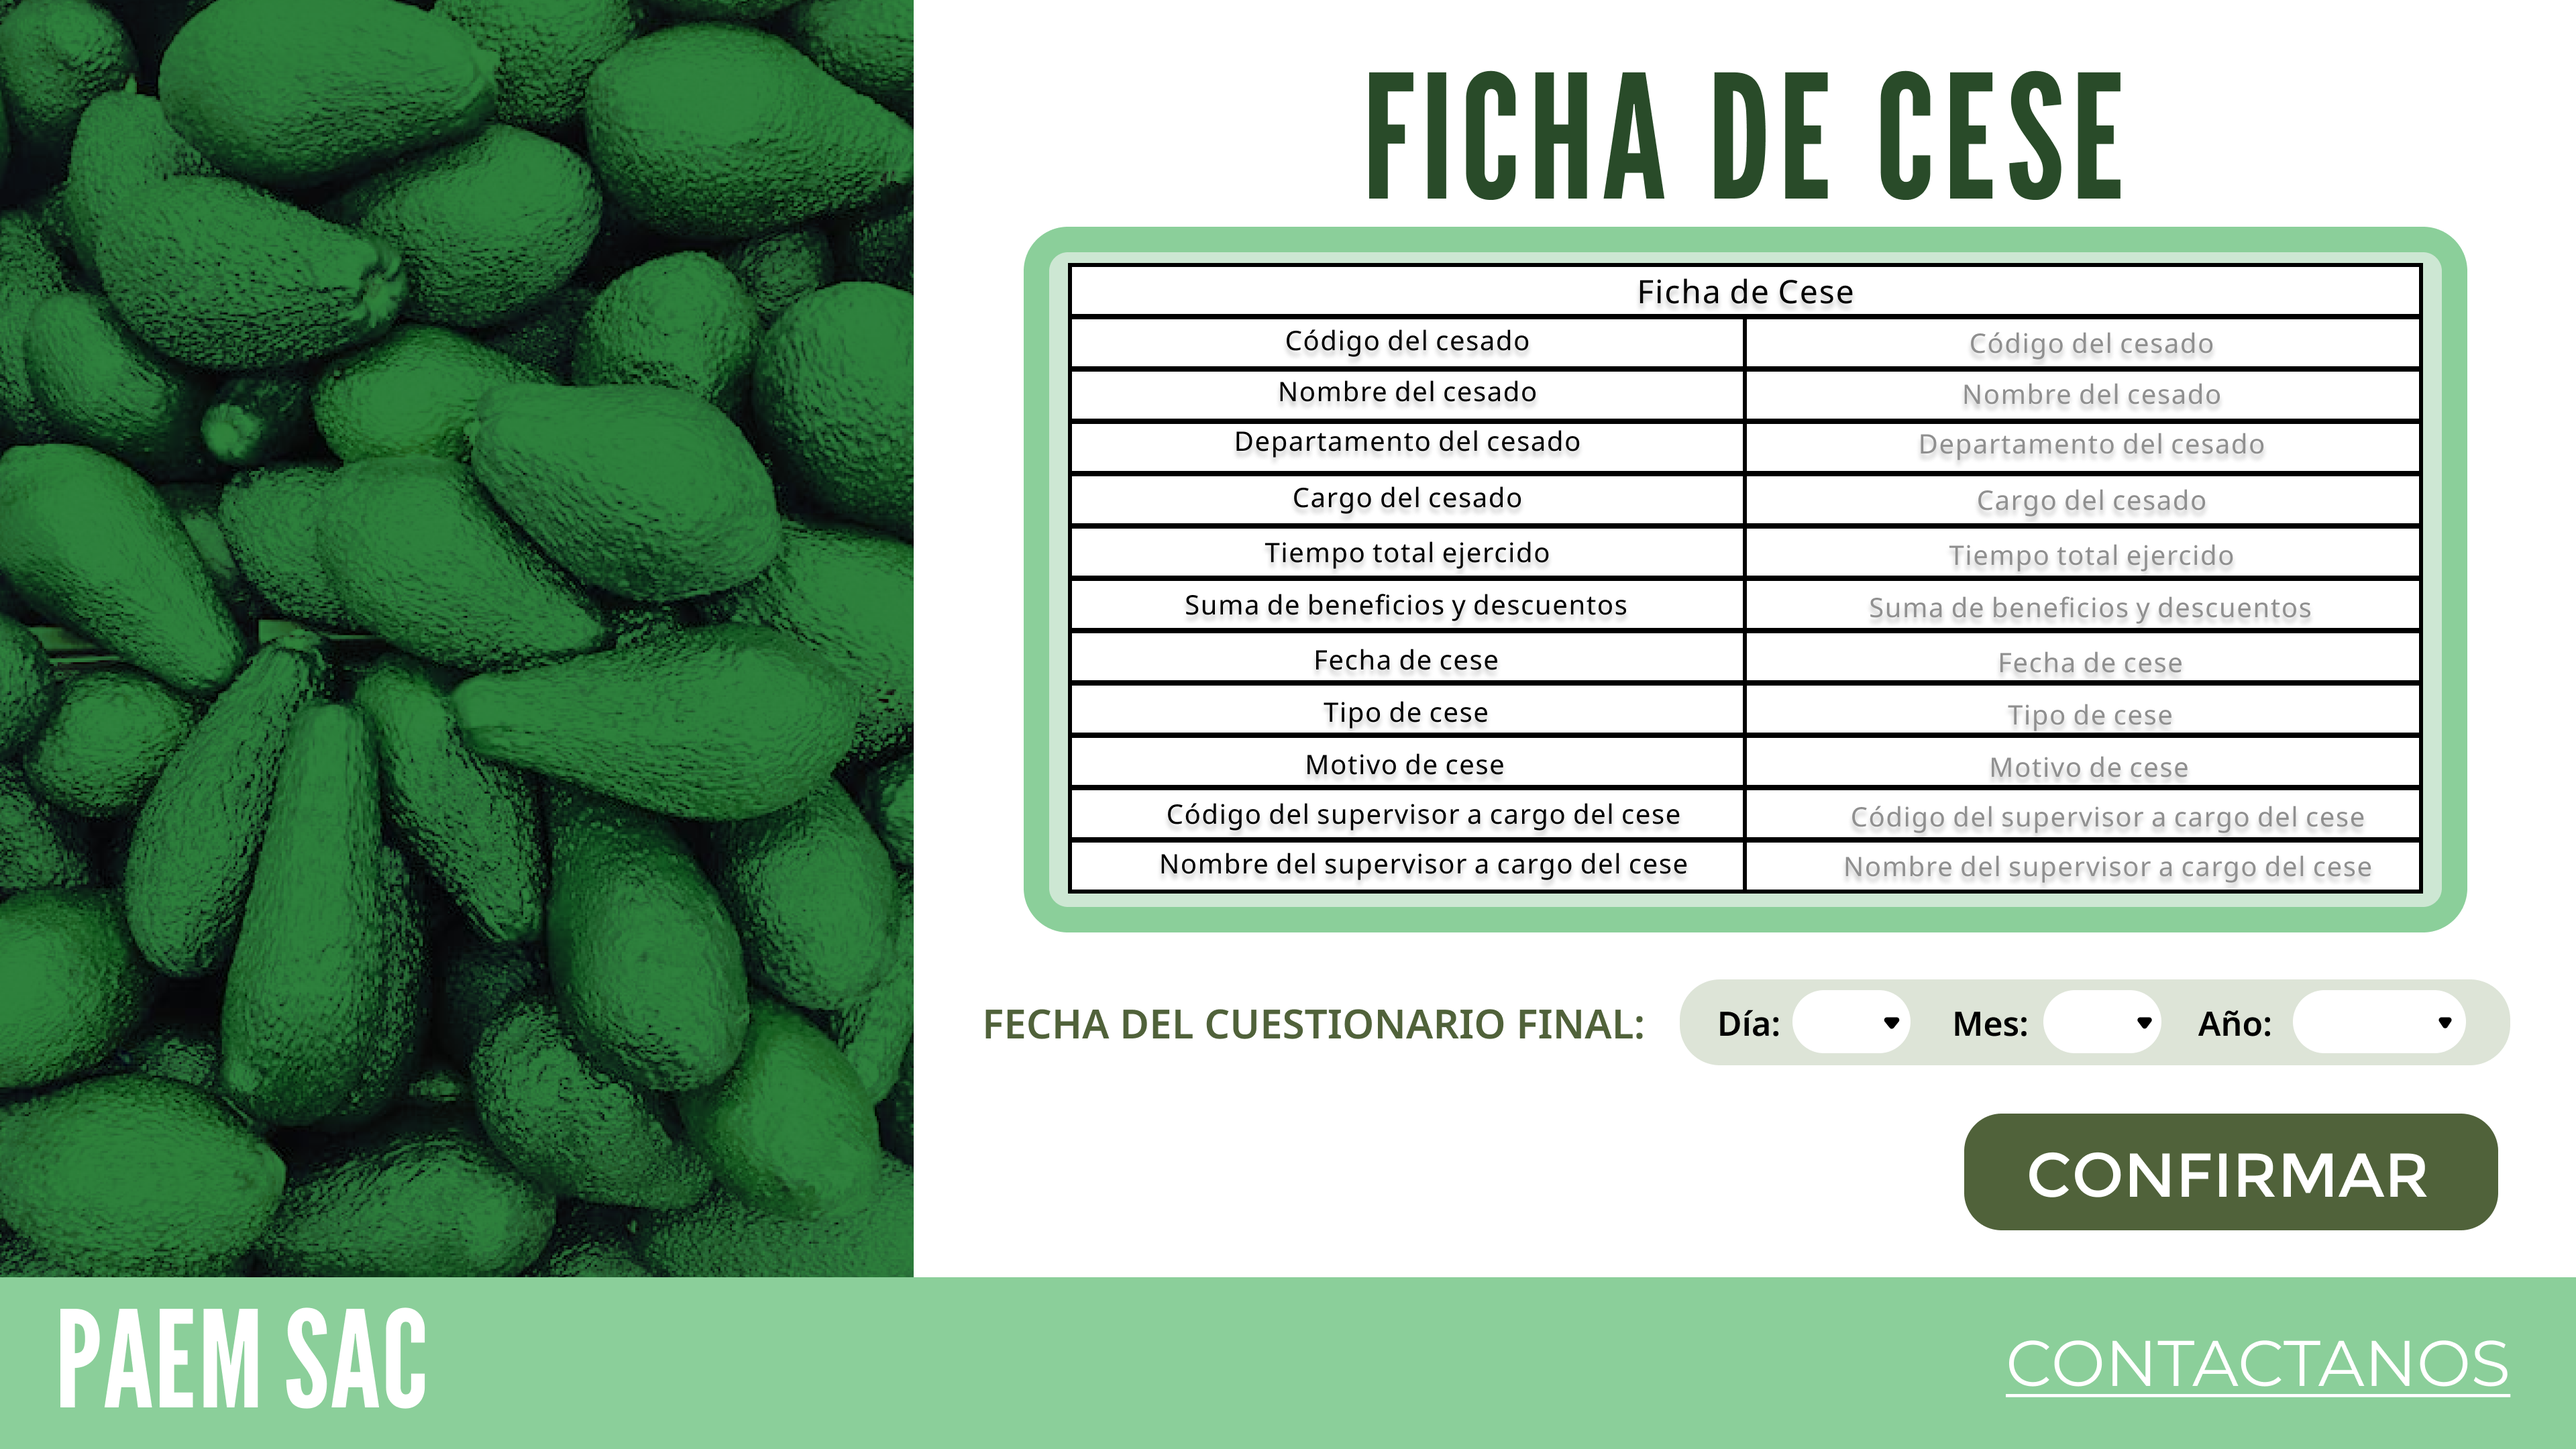
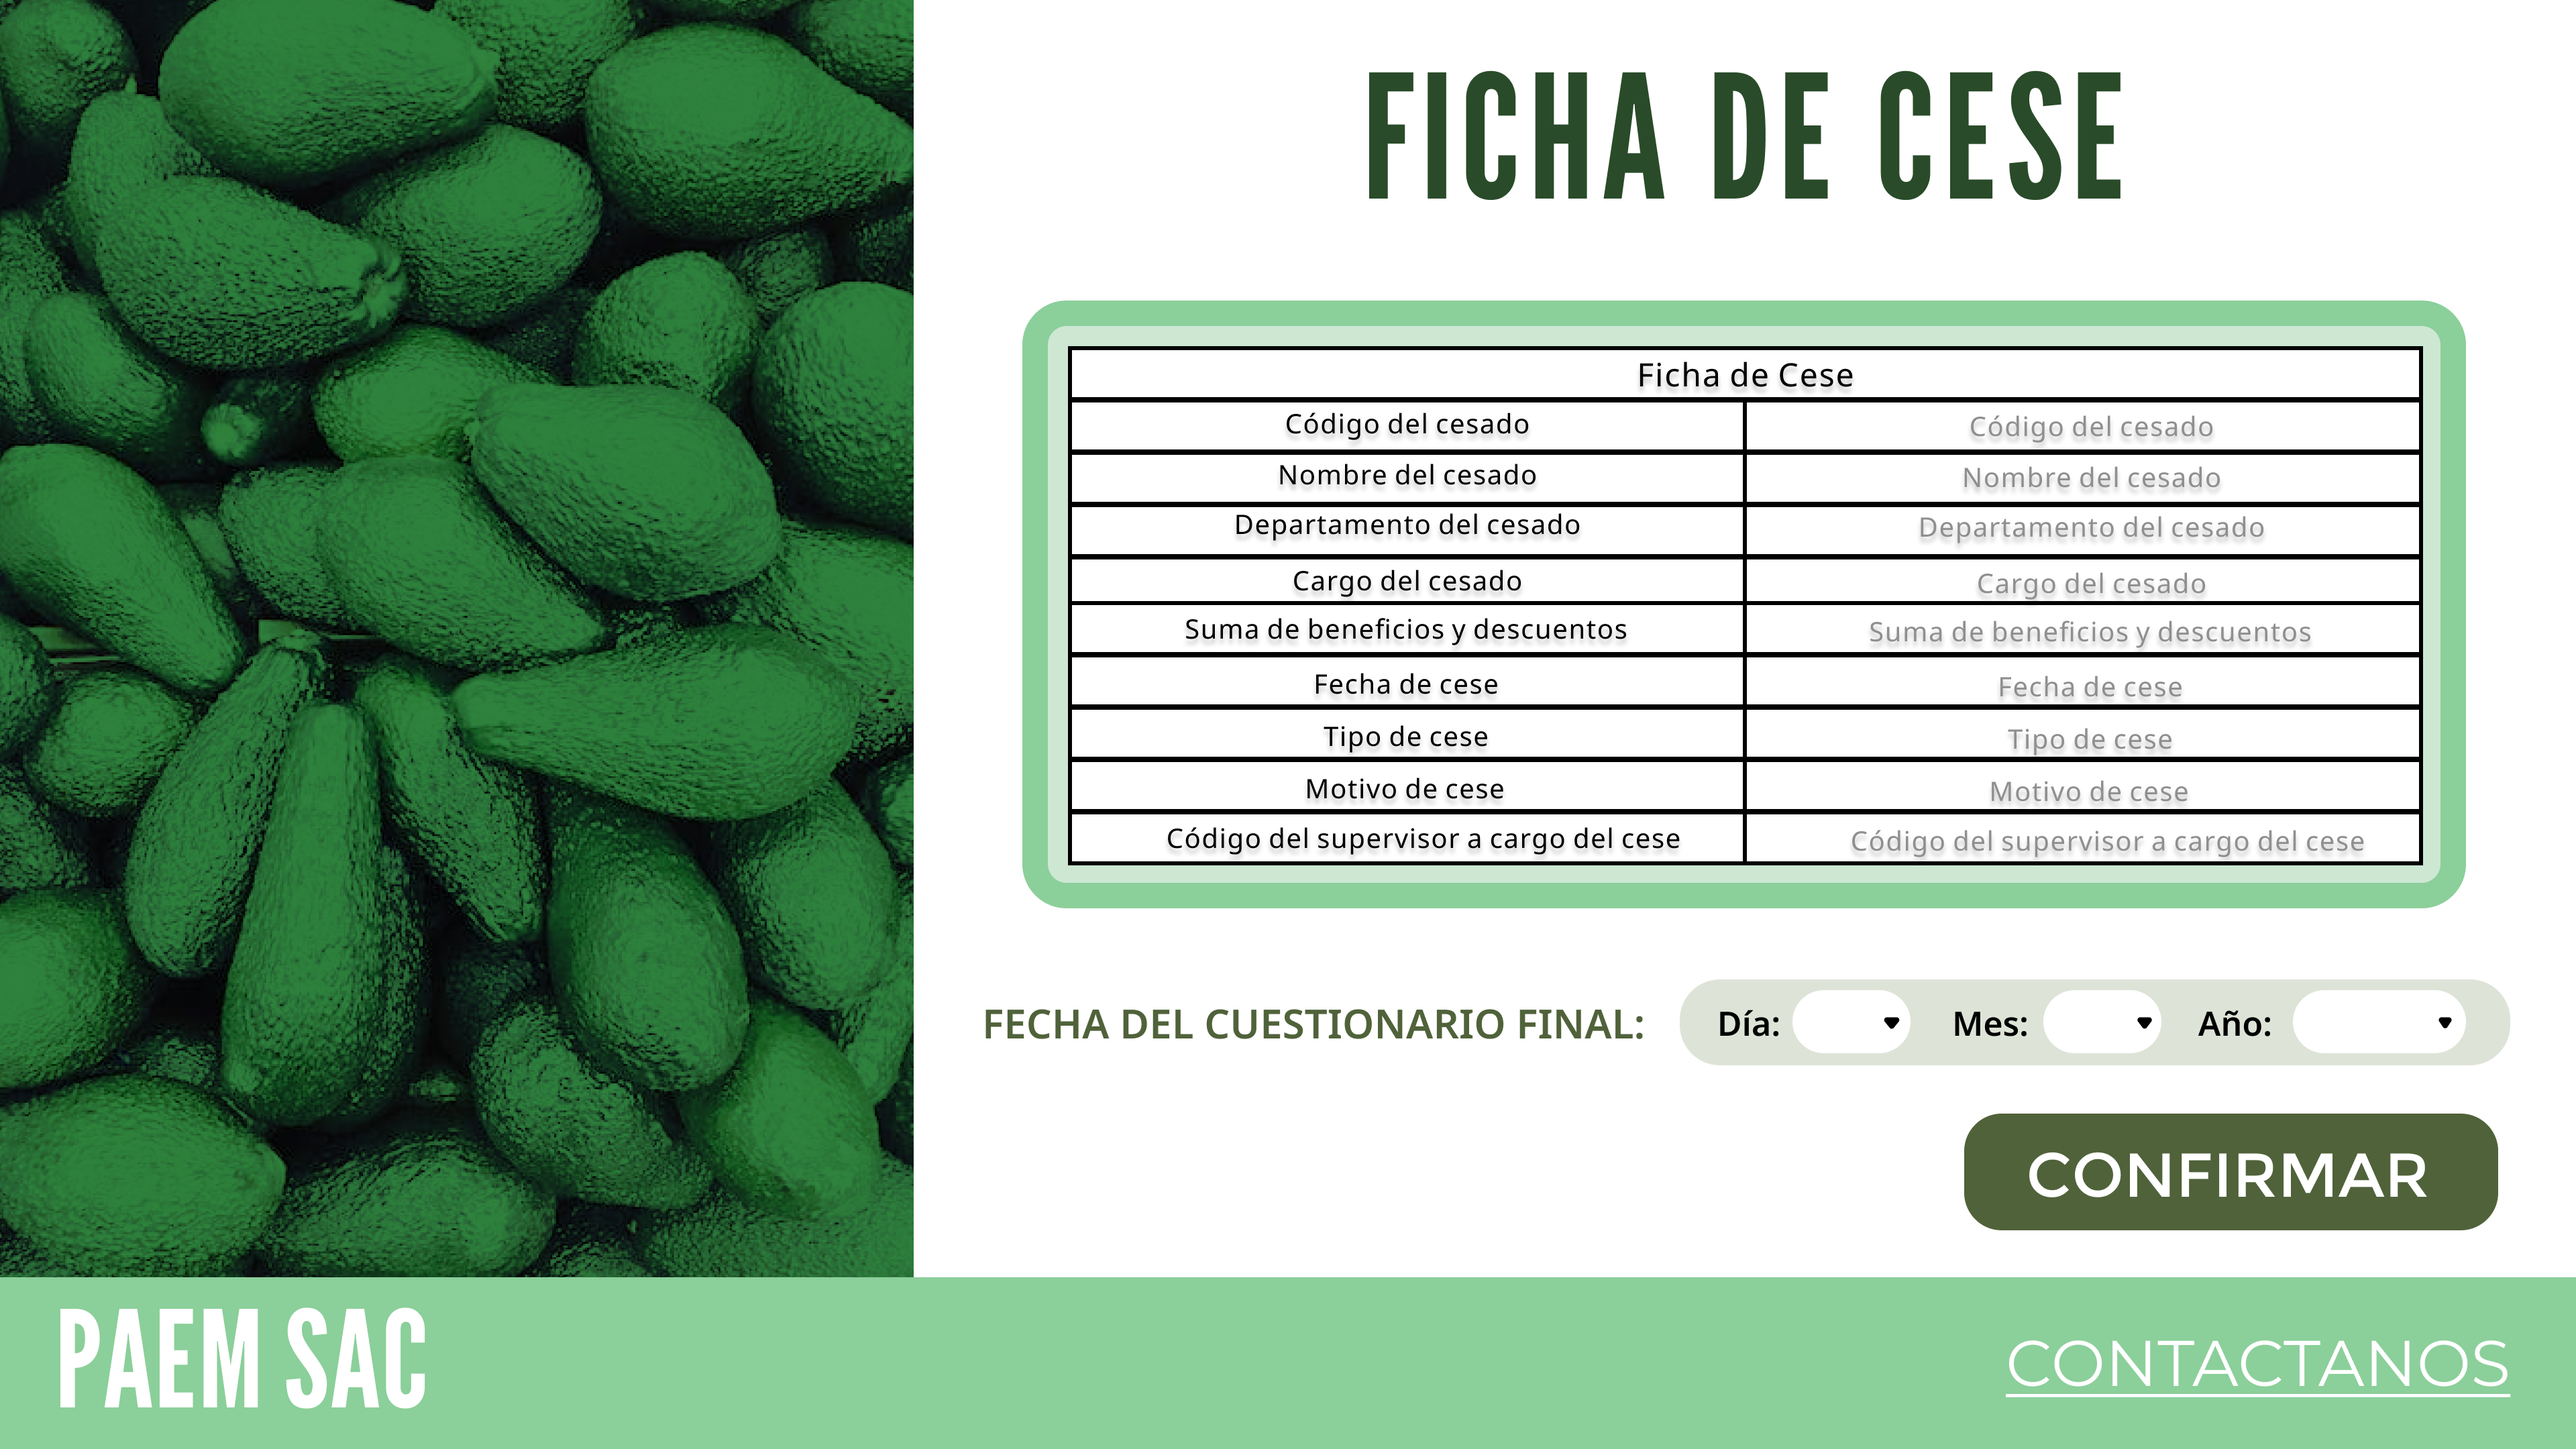
código

Changed region(s): [[0.375, 0.1551, 0.9688, 0.6514]]

diff --git a/Entregables/Entregable3/Postgres/Select.md b/Entregables/Entregable3/Postgres/Select.md
@@ -107,72 +107,119 @@
 ## Módulo: Cese de personal
 ### Registrar el cese:
 
-	SELECT 
-		E.id_empleado as ID_Empleado,
-		E.nombre_empleado ||' '|| apellido_empleado as Nombre_Completo,
-		C.estadocese as Estado_Cese
-	FROM empleado as E
-	INNER JOIN cese as C ON E.id_empleado=C.id_empleado;
+	-- Crear el procedimiento
+	CREATE OR REPLACE PROCEDURE Registrar_cese (TIPOC CHAR(1), MOTC VARCHAR(64), FECC date, SUPC INTEGER, EMPC INTEGER)
+	AS $$
+	BEGIN
+			INSERT INTO Registrar_cese (id_cese, tipo_cese, motivo_cese, fecha_inicio_cese, id_supervisor, id_empleado)
+			VALUES (
+				(SELECT id_beneficios FROM beneficios_cese
+				ORDER BY id_beneficios DESC
+				LIMIT 1)+1,
+			TIPOC, MOTC, FECC, SUPC, EMPC);
+	END;
+	$$ LANGUAGE plpgsql;
 
-![Estado](imágenes/Estado_Cese.png)
+	-- Si llenan el campo "Motivo Cese": CALL Registrar_cese ("tipo_cese", "motivo_cese", "fecha_inicio_cese", "id_supervisor", "id_empleado");
+	-- Si NO llenan el campo "Motivo Cese": CALL Registrar_cese ("tipo_cese", null, "fecha_inicio_cese", "id_supervisor", "id_empleado");
+	
+
 ![alt text](../Front/RegistroCese1.png)
 
 ### Registrar los beneficios y descuentos:
 
-	SELECT 
-		C.id_empleado as ID_Empleado,
-		C.estadocese as Estado_Cese,
-		B.tipo as Tipo,
-		SUM(B.monto) as Monto,
-		CASE
-				WHEN SUM(B.monto) < 0 THEN 'Descuento'
-				WHEN SUM(B.monto) > 0 THEN 'Bono'
-				ELSE 'No hay'
-			END AS CASO
-	FROM beneficios_cese as B
-	INNER JOIN cese as C ON B.id_cese=C.id_cese
-	GROUP BY C.id_empleado, C.estadocese, B.tipo
-![Monto](imágenes/Monto_Cese.png)
+	--Crear el procedimiento
+	CREATE OR REPLACE PROCEDURE Insertar_beneficio (TIPO_B varchar(32), MONTO_B FLOAT, ID_B INTEGER)
+	AS $$
+	BEGIN
+			INSERT INTO beneficios_cese (id_beneficios, tipo, monto, id_Cese)
+			VALUES (
+				(SELECT id_beneficios FROM beneficios_cese
+				ORDER BY id_beneficios DESC
+				LIMIT 1)+1,
+			TIPO_B, MONTO_B, ID_B);
+	END;
+	$$ LANGUAGE plpgsql;
+	--Ejecutar el procedimiento
+	-- Cuando seleccionan Liquidación: CALL Insert_beneficio ('Liquidación', "monto", "id_cese");
+	-- Cuando seleccionan CTS: CALL Insert_beneficio ('CTS', "monto", "id_cese");
+	...
+
 ![alt text](../Front/RegistroCese2.png)
 
 ### Mostrar la ficha del cese
 
-	SELECT 
-		C.id_empleado as ID_Empleado,
-		S.fecha_cuestionario as Fecha,
-		P.pregunta_salida as Pregunta,
-		P.respuesta_salida as Respuesta
-	FROM cuestionario_salida as S
-	INNER JOIN cese as C ON S.id_cese=C.id_cese
-	INNER JOIN pregunta_salida as P ON S.id_cuestionario = P.id_cuestionario
+	-- Crear el procedimiento
+	CREATE OR REPLACE PROCEDURE Mostrar_cese (IDC INTEGER)
+	AS $$
+	BEGIN
+			SELECT
+				C.id_empleado as Codigo_cesado,
+				E.nombre_empleado as Nombre_cesado,
+				D.nombre_departamento as Nombre_departamento,
+				CA.nombre as Cargo_cesado,
+				SUM(B.monto) as Suma_beneficios_descuentos,
+				C.fecha_inicio_cese as Fecha_Cese,
+				CASE
+					WHEN C.tipo_cese = 'D' THEN 'Despido'
+					WHEN C.tipo_cese = 'R' THEN 'Renuncia'
+					WHEN C.tipo_cese = 'C' THEN 'Término de contrato'
+					WHEN C.tipo_cese = 'J' THEN 'Juvilación'
+					ELSE 'No especificado'
+				END AS Tipo_Cese,
+				C.motivo_cese as Motivo_Cese,
+				C.id_supervisor as Código_Supervisor
+			FROM Cese as C
+			INNER JOIN Empleado as E On C.id_empleado=E.id_empleado
+			INNER JOIN Departamento as D On E.id_departamento=D.id_departamento
+			INNER JOIN cargo as CA On E.id_cargo = CA.id_cargo
+			INNER JOIN beneficios_cese as B on C.id_cese=B.id_cese
+			WHERE C.id_Cese = IDC
+			GROUP BY C.id_empleado, E.nombre_empleado, C.tipo_cese, D.nombre_departamento, CA.nombre, C.fecha_inicio_cese, C.motivo_cese, C.id_supervisor;
+	END;
+	$$ LANGUAGE plpgsql;
 
-![Cuestionario_Cese](imágenes/Cuestionario_Cese.png)
+	-- Ejecutar el procedimiento: CALL Mostrar_Cese(id_cese);
+
 ![alt text](../Front/RegistroCese3.png)
 
 ### Registrar preguntas para la persona a cesar:
 
-	SELECT 
-		C.id_empleado as ID_Empleado,
-		S.fecha_cuestionario as Fecha,
-		P.pregunta_salida as Pregunta,
-		P.respuesta_salida as Respuesta
-	FROM cuestionario_salida as S
-	INNER JOIN cese as C ON S.id_cese=C.id_cese
-	INNER JOIN pregunta_salida as P ON S.id_cuestionario = P.id_cuestionario
+	--Crear el procedimiento
+	CREATE OR REPLACE PROCEDURE Anadir_pregunta (PREG varchar(256), ID_C INTEGER)
+	AS $$
+	BEGIN
+			INSERT INTO pregunta_salida (id_pregunta, pregunta_salida, id_cuestionario)
+			VALUES (
+				(SELECT id_pregunta FROM pregunta_salida
+				ORDER BY id_pregunta DESC
+				LIMIT 1)+1,
+			PREG, ID_C);
+	END;
+	$$ LANGUAGE plpgsql;
 
-![Cuestionario_Cese](imágenes/Cuestionario_Cese.png)
+	--Insertar una pregunta: CALL Anadir_pregunta("Pregunta1","ID_Cuestionario");
+	--Insertar otra pregunta: CALL Anadir_pregunta("Pregunta2","ID_Cuestionario");
+	...
+
 ![alt text](../Front/RegistroCese4.png)
 
 ### Resolver cuestionario:
 
-	SELECT 
-		C.id_empleado as ID_Empleado,
-		S.fecha_cuestionario as Fecha,
-		P.pregunta_salida as Pregunta,
-		P.respuesta_salida as Respuesta
-	FROM cuestionario_salida as S
-	INNER JOIN cese as C ON S.id_cese=C.id_cese
-	INNER JOIN pregunta_salida as P ON S.id_cuestionario = P.id_cuestionario
+	--Crear el procedimiento
+	CREATE OR REPLACE PROCEDURE Anadir_respuesta (RESP varchar(256), ID_P INTEGER)
+	AS $$
+	BEGIN
+			INSERT INTO respuesta_salida (id_respuesta, respuesta_salida, id_pregunta)
+			VALUES (
+				(SELECT id_respuesta FROM respuesta_salida
+				ORDER BY id_respuesta DESC
+				LIMIT 1)+1,
+			RESP , ID_P);
+	END;
+	$$ LANGUAGE plpgsql;
 
-![Cuestionario_Cese](imágenes/Cuestionario_Cese.png)
+	--Insertar una respuesta: CALL Anadir_respuesta("respuesta1","ID_Pregunta");
+	--Insertar otra respuesta: CALL Anadir_respuesta("respuesta2","ID_Pregunta");
+
 ![alt text](../Front/CuestionarioCese.png)

diff --git a/Entregables/Entregable3/ModeloLogico/Logico.md b/Entregables/Entregable3/ModeloLogico/Logico.md
@@ -116,6 +116,7 @@
 |:------------------:|:-------------------------------------------------------:|:-------:|:----------:|:--------:|
 |   ID_Cuestionario  |   Identificador único de cuestionario salida.   | 999999 |   Int  | NOT NULL |
 | Fecha_Cuestionario | Fecha en la que se realizó el cuestionario de salida. | AAAMMDD |    DATE    | NOT NULL |
+
 ### Entidad: Pregunta_Salida
 #### Descripción: Almacena las diferentes preguntas que son parte del cuestionario salida.
 | Atributo |                             Descripción                            | Formato | Naturaleza |  Valores |
